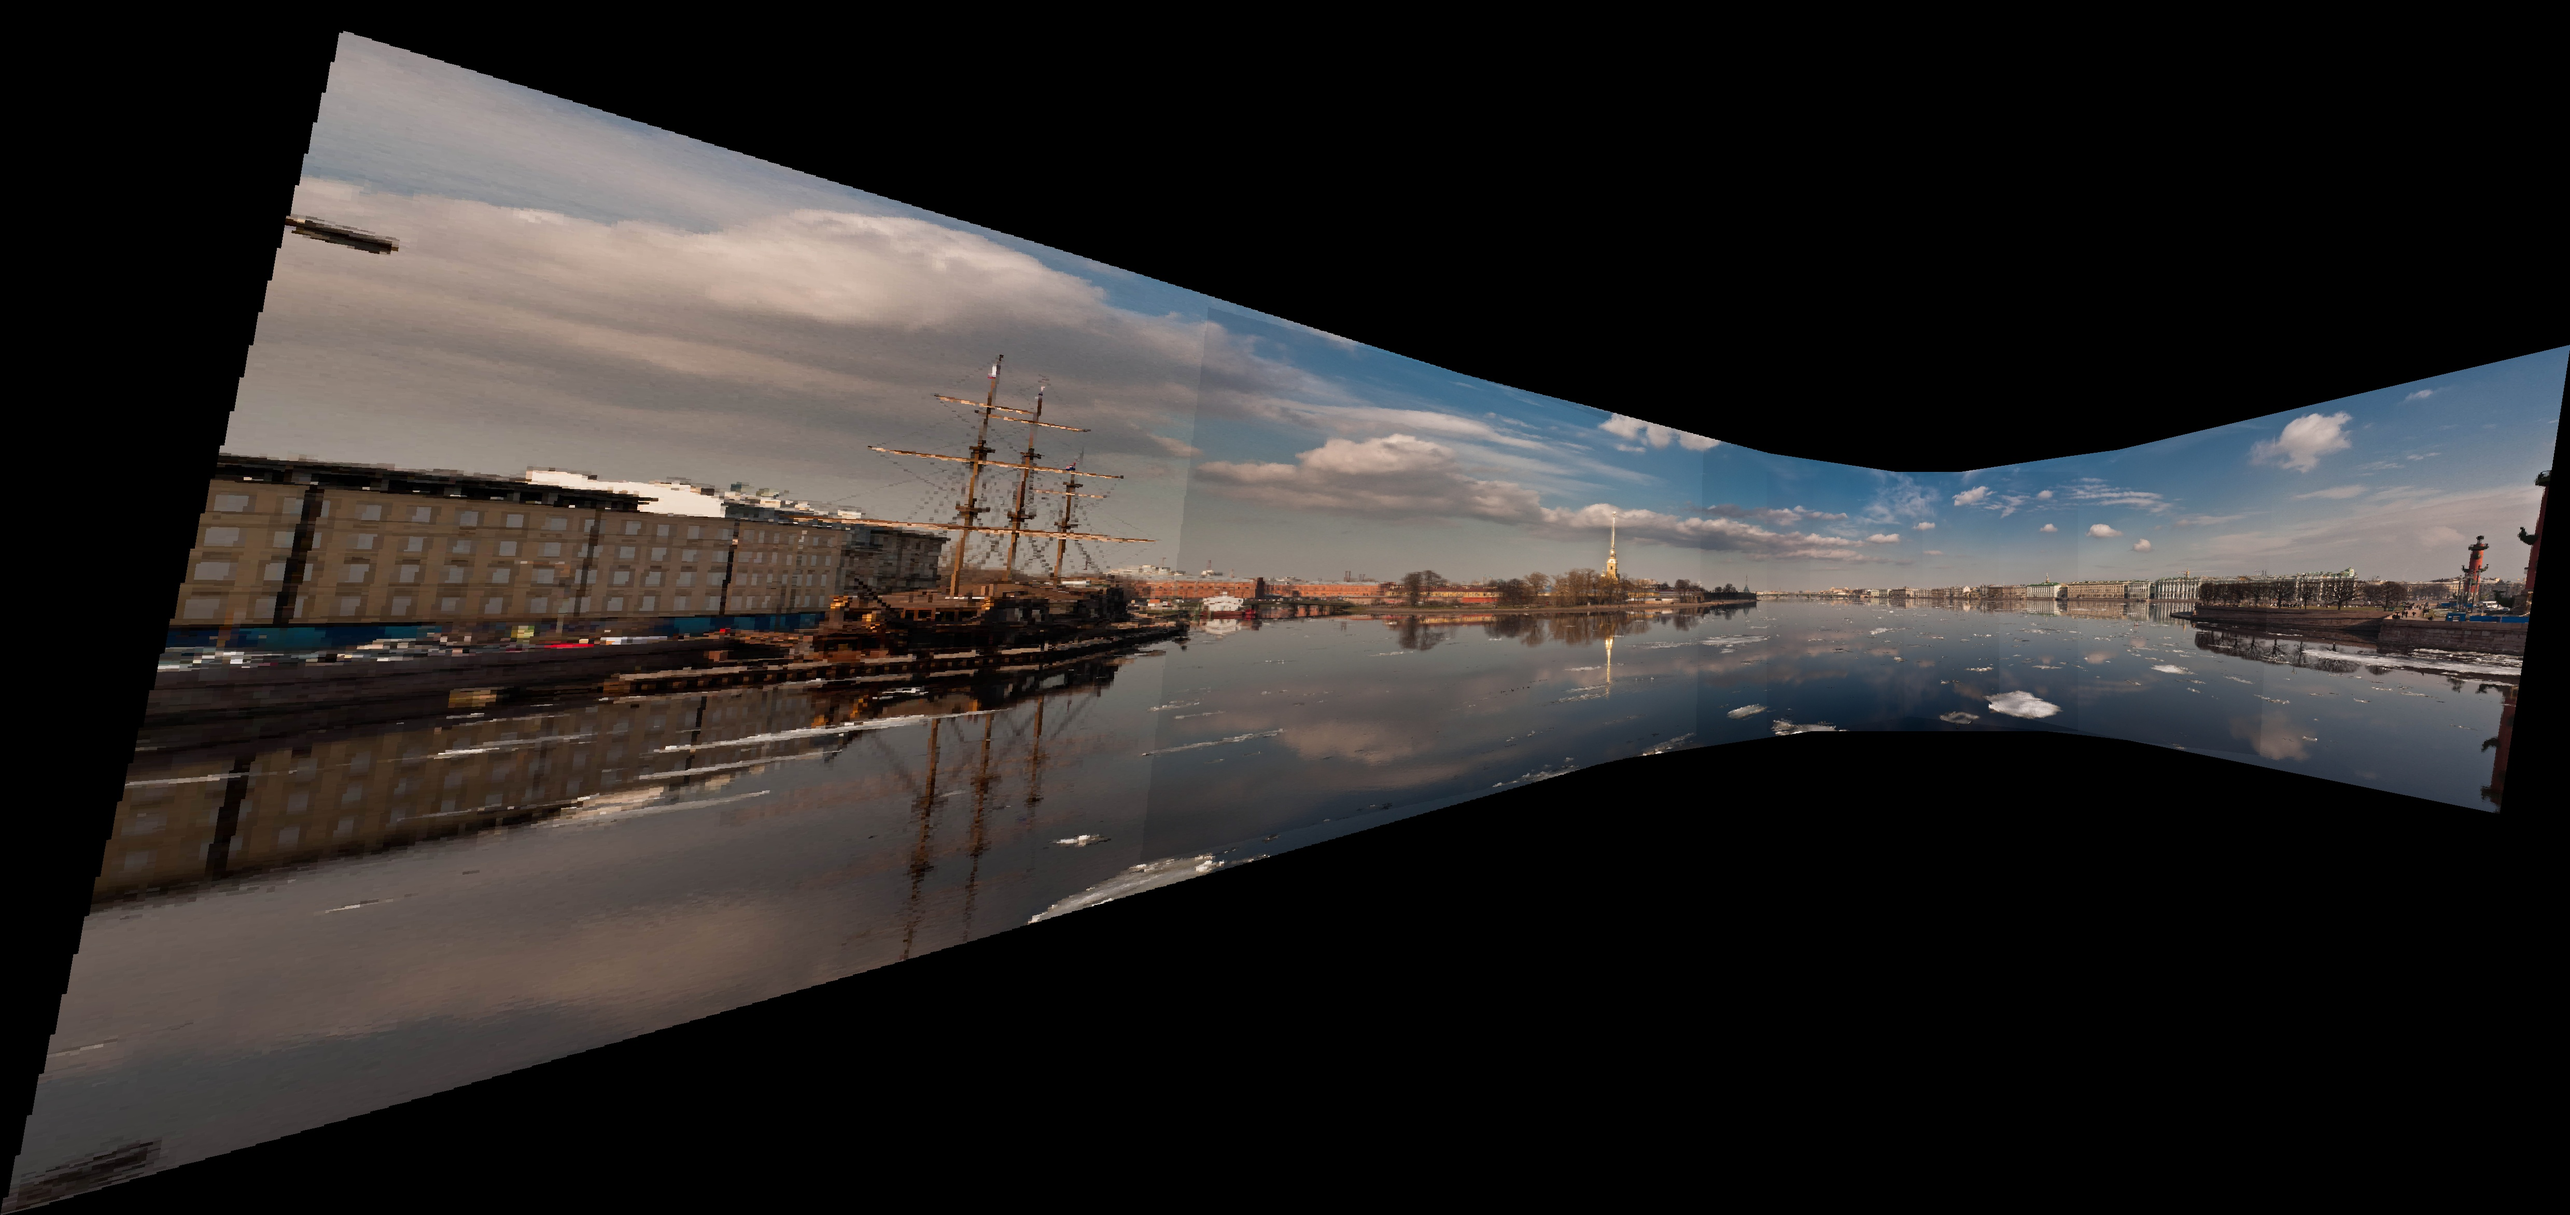
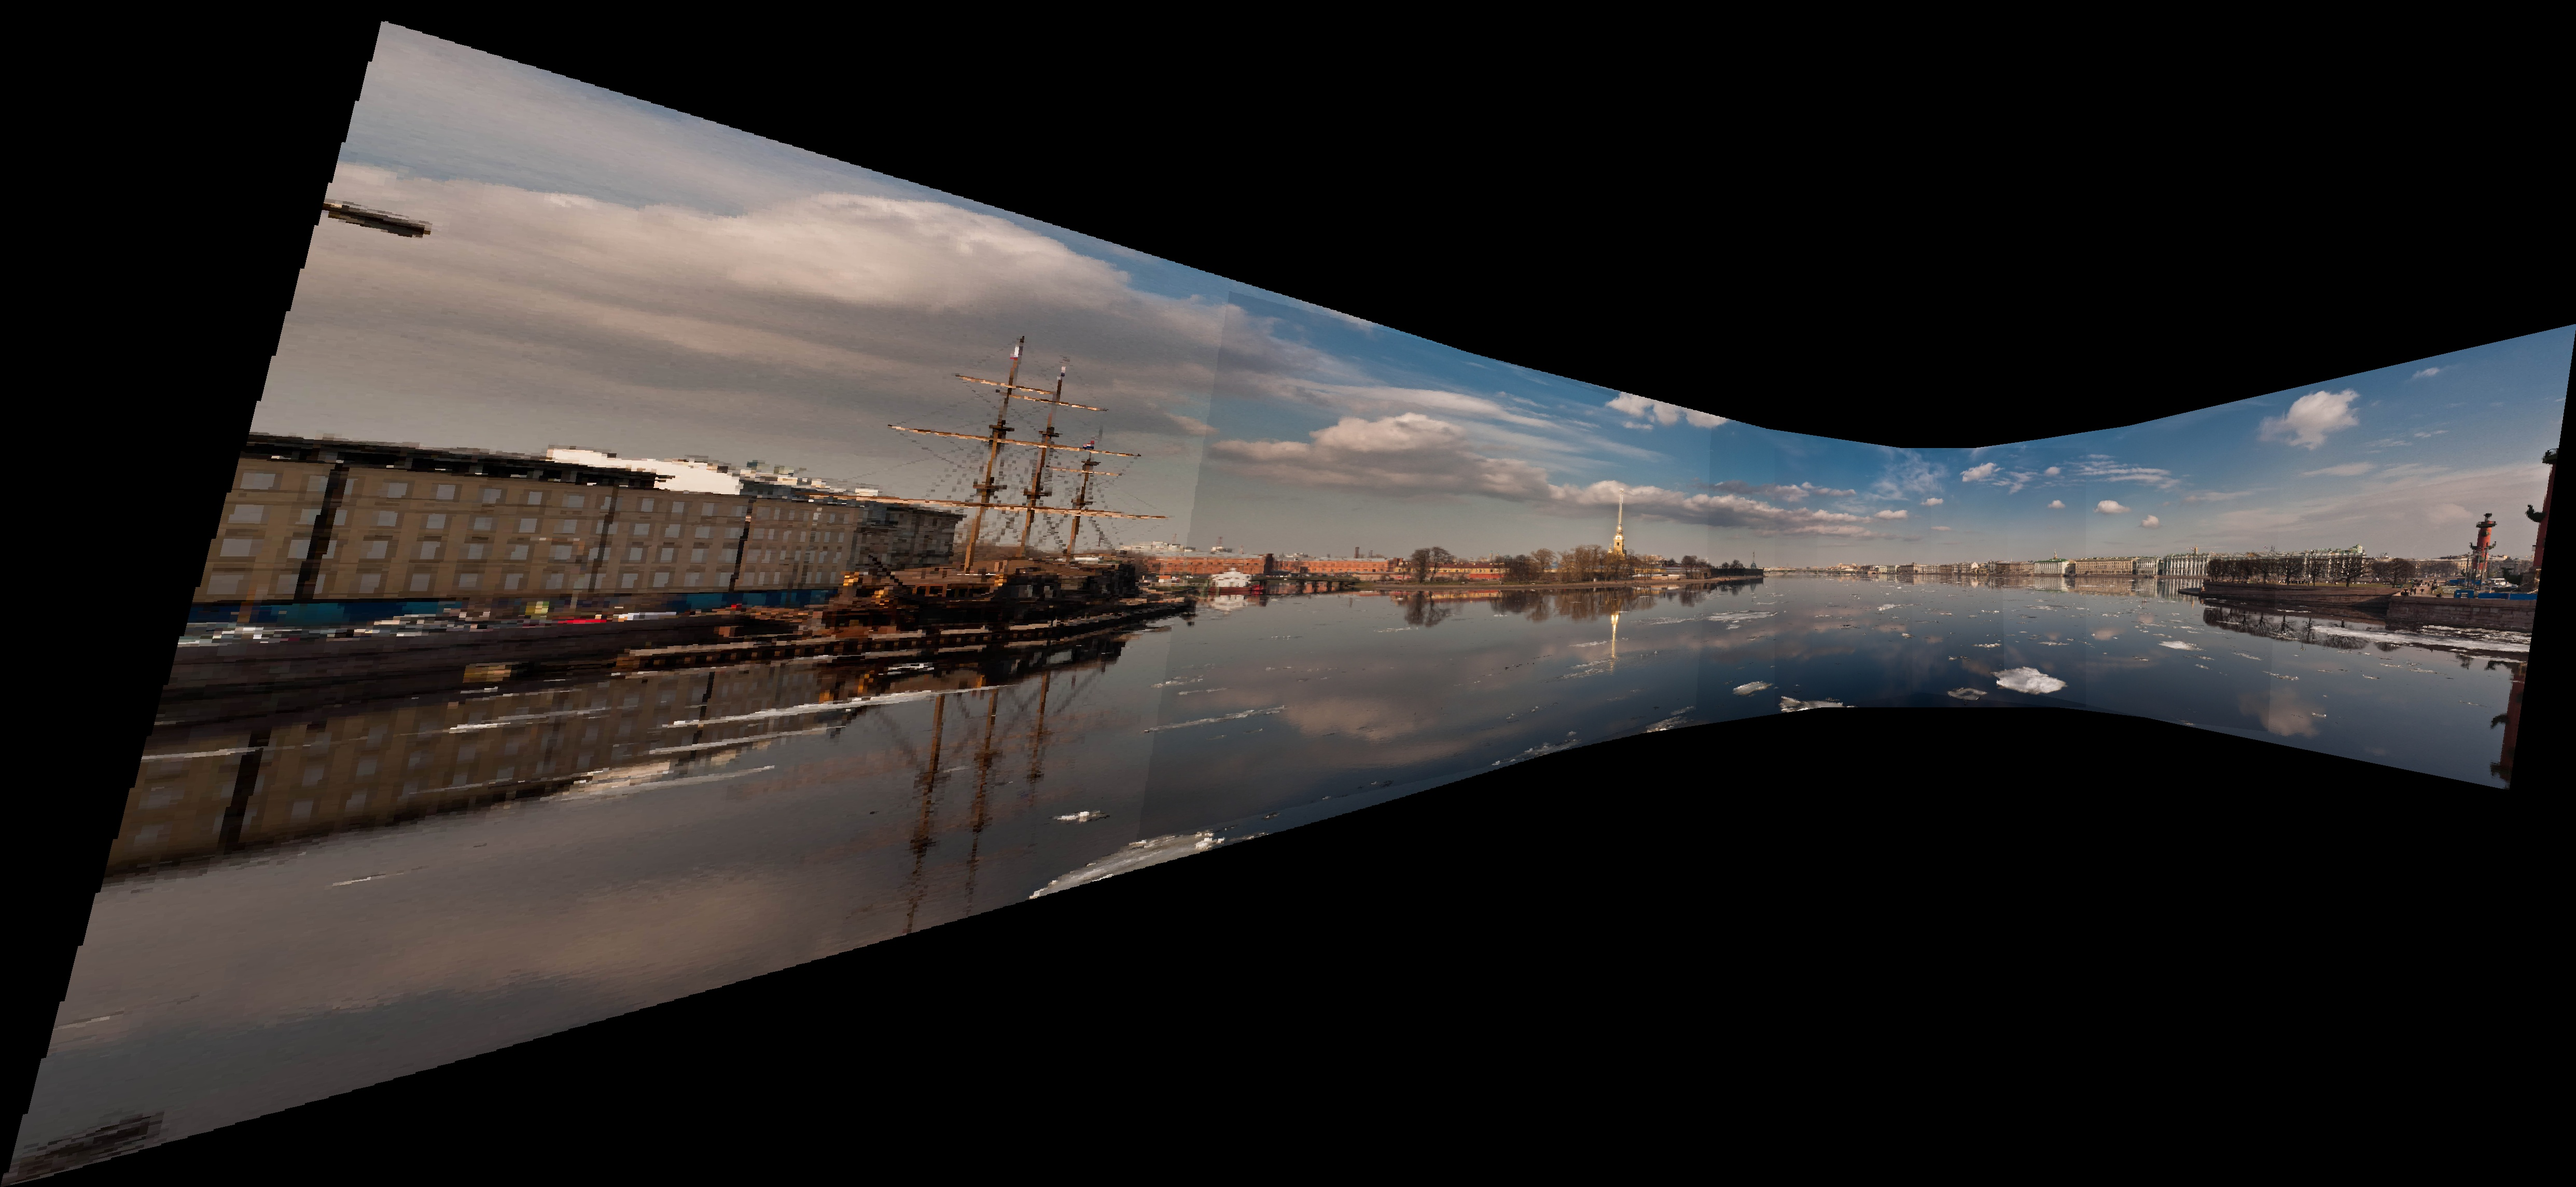
local homography fix

diff --git a/feature/ransac.py b/feature/ransac.py
@@ -5,19 +5,27 @@ from stitching.homography import Homography
 
 
 class RANSAC:
-    def __init__(self, prob=0.995, inlier_p=0.5, threshold=10, m=6):
-        self.prob = prob
-        self.inlier_p = inlier_p
-        self.threshold = threshold
-        self.N = None
-        self.m = m  # # of sample for RANSAC algorithm
+    def __init__(self, opt):
+        self.opt = opt
+        self.prob = opt.sample_inlier
+        self.inlier_p = opt.ransac_inlier_prob
+        self.threshold = opt.ransac_thres
+        self.m = opt.ransac_sample  # # of sample for RANSAC algorithm
+        if opt.optimal_ransac:
+            self.N = min(self.get_N(), opt.ransac_max)  # optimal try number for RANSAC
+        else:
+            self.N = opt.ransac_max
+        if opt.verbose:
+            print(f"RANSAC trial optimization: {opt.optimal_ransac}")
+            print(f"The number of RANSAC trials: {self.N}")
 
     def get_N(self):
         """
         calculate how much RANSAC to try.
+        https://darkpgmr.tistory.com/61 -- (2)
         :return: # of Iteration
         """
-        return int(math.log(1 - self.prob) / math.log(1 - math.pow((1 - self.inlier_p), self.m) + 1e-8))
+        return int(round(math.log(1 - self.prob) / math.log(1 - math.pow((1 - self.inlier_p), self.m) + 1e-8)))
 
     @staticmethod
     def get_distance(src_point, dst_point, h):
@@ -47,18 +55,18 @@ class RANSAC:
         :param max_try: user setting
         :return: good matching points
         """
-        self.N = self.get_N()
         smax_inliers = []
         dmax_inliers = []
         arr_range = list(np.arange(len(src)))
         h_agent = Homography()
-        for i in range(min(self.N, max_try)):
+
+        for i in range(self.N):
             indices = random.sample(arr_range, self.m)
 
+            # shape: (self.m, 2) [x, y]
             chosen_src = src[indices, :]
             chosen_dst = dst[indices, :]
 
-            # shape: (self.m, 2)
             H = h_agent.global_homography(chosen_src, chosen_dst)
 
             src_inliers = []

diff --git a/option.py b/option.py
@@ -33,9 +33,16 @@ class Options:
         self.parser.add_argument('--mesh_size', type=int, default=100, help='# of square matrix (local-homography mesh)')
         self.parser.add_argument('--mask_dir', type=str, default=None, help='mask image directory for carving')
         self.parser.add_argument('--mask_root', type=str, default=None, help='mask image root directory')
-        self.parser.add_argument('--ransac_max', type=int, default=500, help='RANSAC MAX trial')
         self.parser.add_argument('--resize', type=int, default=(400, 300), nargs='+',
                                  help='unit resizing (width, height)')
+        self.parser.add_argument('--ransac_max', type=int, default=500, help='RANSAC MAX trial')
+        self.parser.add_argument('--ransac_thres', type=float, default=30, help='RANSAC distance')
+        self.parser.add_argument('--ransac_sample', type=int, default=12, help='RANSAC sampling number')
+        self.parser.add_argument('--optimal_ransac', type=str2bool, default=True, help='calculate the optimal try number of RANSAC')
+        self.parser.add_argument('--ransac_inlier_prob', type=float, default=0.5, help='inlier probability for RANSAC optimal calc.')
+        self.parser.add_argument('--sample_inlier', type=float, default=0.995, help='Assumption the probability of picking an inlier.')
+        self.parser.add_argument('--gamma', type=float, default=0.0001, help='Gamma parameter in the paper')
+        self.parser.add_argument('--sigma', type=float, default=8.5, help='Sigma parameter in the paper')
 
         # print settings
         self.parser.add_argument('--print_n', type=str2bool, default=True, help='print <n>th process')

diff --git a/thread.py b/thread.py
@@ -127,12 +127,13 @@ class Thread:
         if self.opt.verbose: print(f'{self.n + 1} image SIFT...')
         # SIFT & KNN BFMatching
         src_match, dst_match = sift.thread(img1, img2)
+        if self.opt.verbose: print(f"raw matching points: {len(src_match)}")
 
         # RANSAC
         if self.opt.verbose: print(f'{self.n + 1} image RANSAC...')
-        ransac = RANSAC()
+        ransac = RANSAC(self.opt)
         final_src, final_dst = ransac.thread(src_match, dst_match, self.opt.ransac_max)
-        if self.opt.verbose: print(f'final matchings points: {len(final_src)}')
+        if self.opt.verbose: print(f'final matching points: {len(final_src)}')
 
         # Global Homography
         if self.opt.verbose: print(f'{self.n + 1} image Global Homography Estimation...')
@@ -156,7 +157,7 @@ class Thread:
             vertices = get_vertice((final_w, final_h), mesh_size, (offset_x, offset_y))
 
             # As-Projective-As-Possible Stitcher instance definition
-            stitcher = Apap(0, [final_w, final_h], [offset_x, offset_y])
+            stitcher = Apap(self.opt, [final_w, final_h], [offset_x, offset_y])
             # local homography estimating
             if self.opt.verbose: print(f'{self.n+1} image local homography Estimation...')
             local_homography, local_weight = stitcher.local_homography(final_src, final_dst, vertices)

diff --git a/stitching/apap.py b/stitching/apap.py
@@ -12,13 +12,8 @@ class Apap(Homography):
         :param offset: The extent to which the image is stretched
         """
         super().__init__()
-
-        # debug code
-        self.gamma = 0.001
-        self.sigma = 8.5
-
-        # self.gamma = opt.gamma
-        # self.sigma = opt.sigma
+        self.gamma = opt.gamma
+        self.sigma = opt.sigma
         self.final_width, self.final_height = final_size
         self.offset_x, self.offset_y = offset
 
@@ -56,8 +51,7 @@ class Apap(Homography):
                 weight = np.exp(-(np.sqrt(dist[:, 0] ** 2 + dist[:, 1] ** 2) * inverse_sigma))
                 weight[weight < self.gamma] = self.gamma
                 local_weight[i, j, :] = weight
-                weight = np.concatenate([weight, weight])
-                A = weight.reshape(-1, 1) * aa.copy()
+                A = np.expand_dims(np.repeat(weight, 2), -1) * aa
                 W, U, V = cv2.SVDecomp(A)
                 h = V[-1, :]
                 h = h.reshape((3, 3))
@@ -66,7 +60,6 @@ class Apap(Homography):
                 h = h / h[2, 2]
                 local_homography_[i, j] = h
         return local_homography_, local_weight
-
 
     @staticmethod
     def warp_coordinate_estimate(pt, homography):
